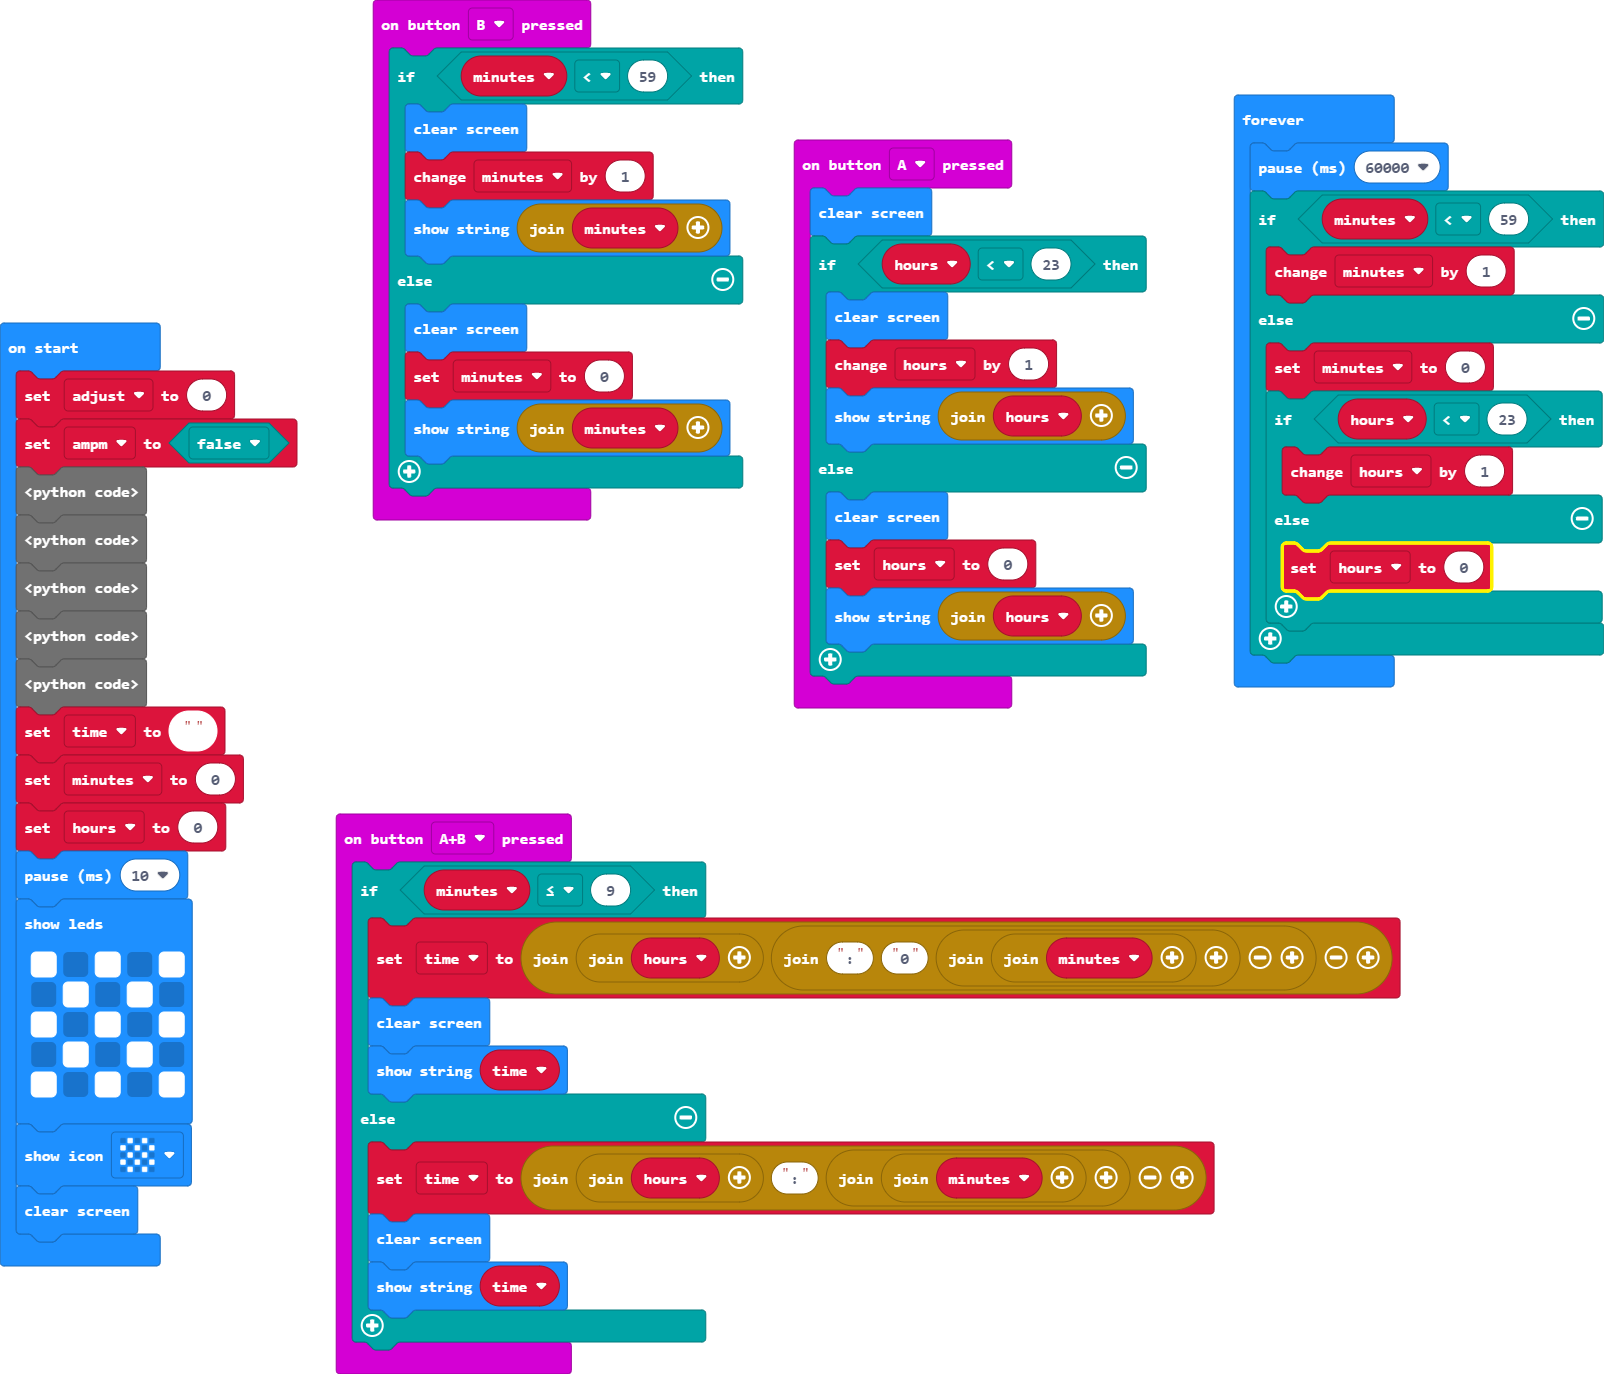
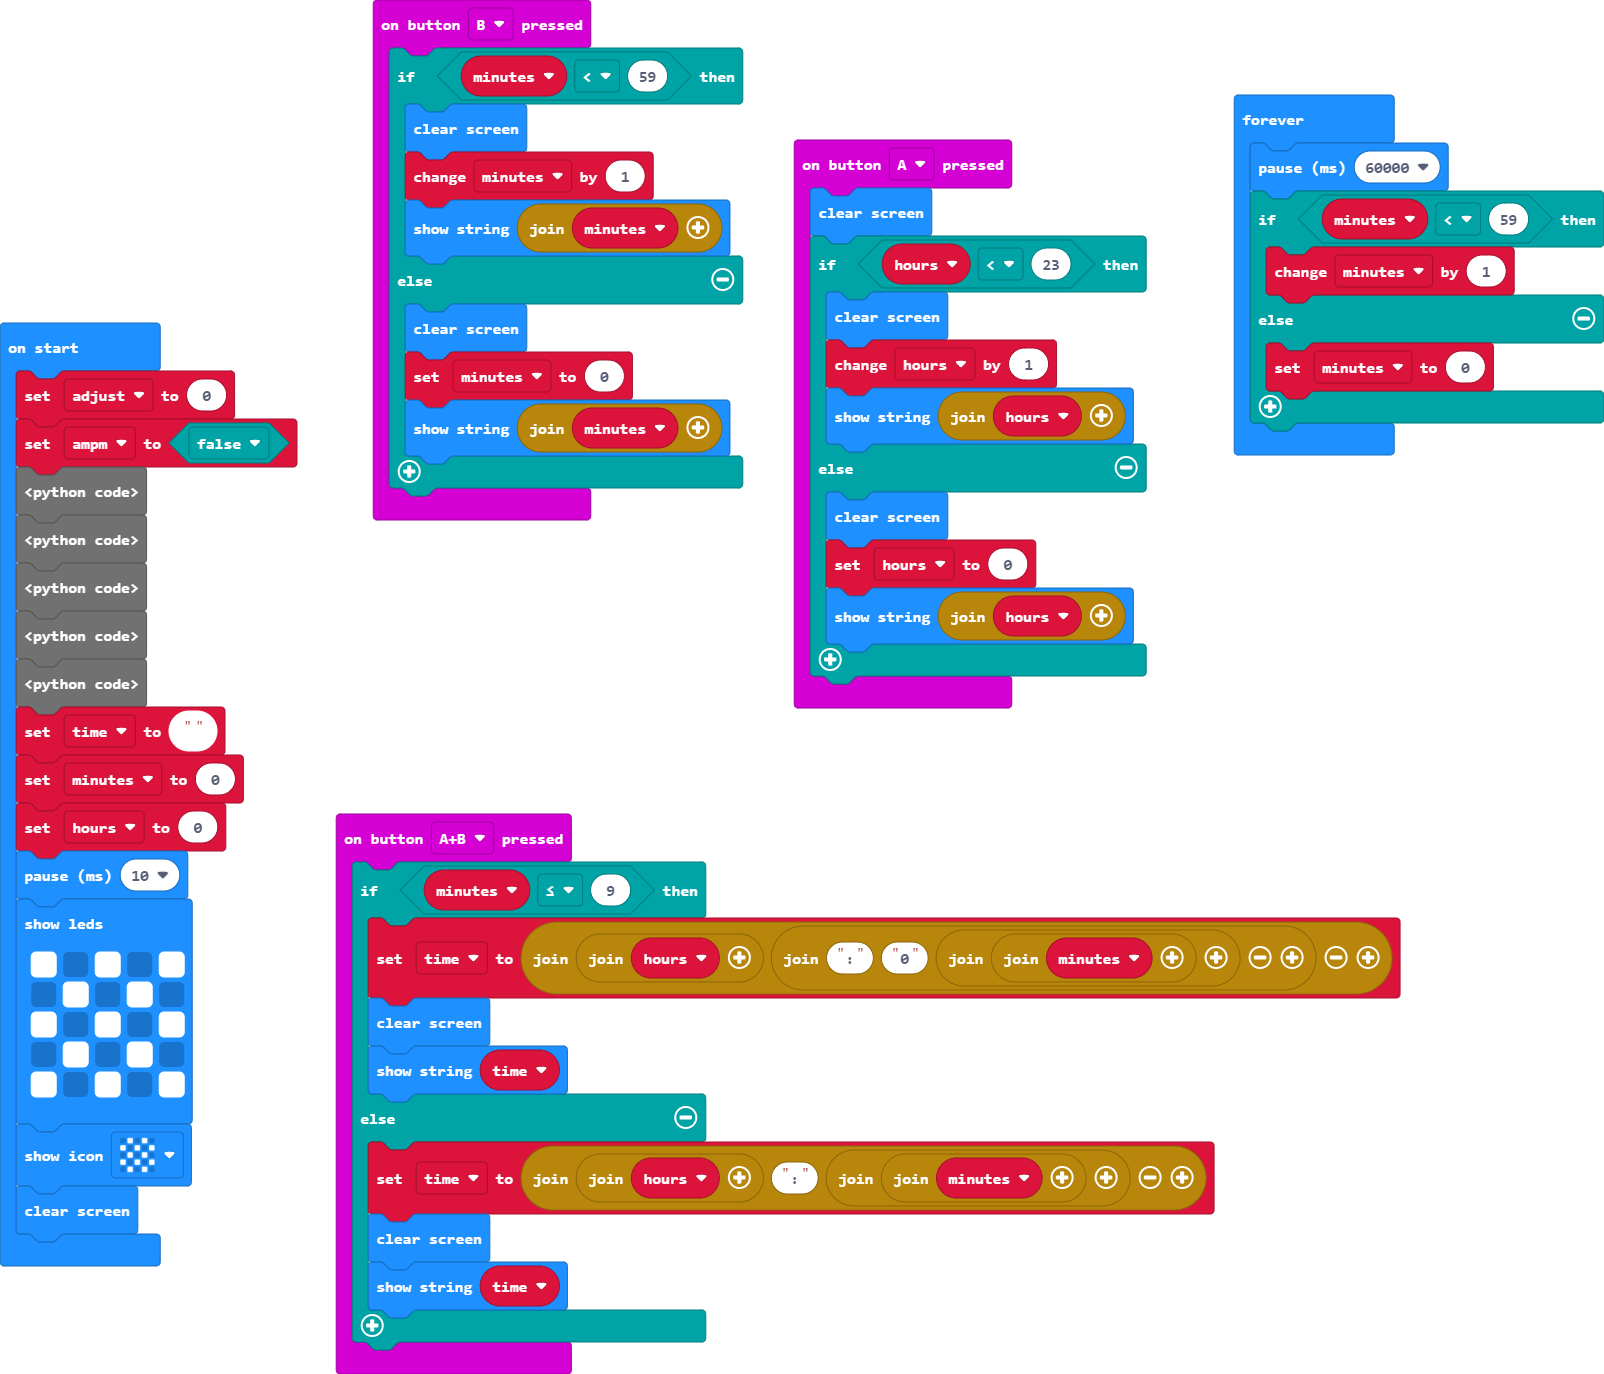
fixed time

Changed region(s): [[0.7481, 0.2751, 1.0, 0.5197]]

diff --git a/main.ts b/main.ts
@@ -61,10 +61,5 @@ basic.forever(function () {
         minutes += 1
     } else {
         minutes = 0
-        if (hours < 23) {
-            hours += 1
-        } else {
-            hours = 0
-        }
     }
 })
